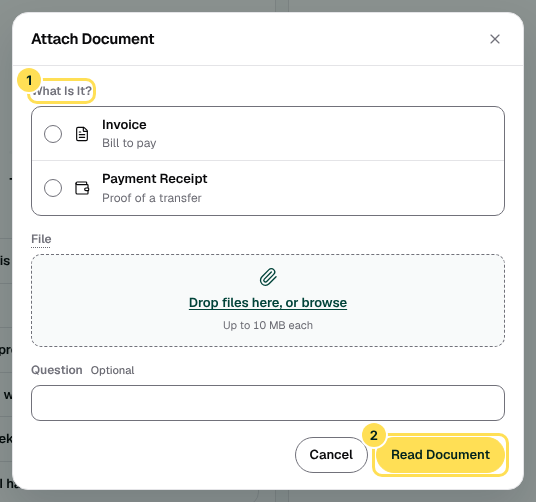
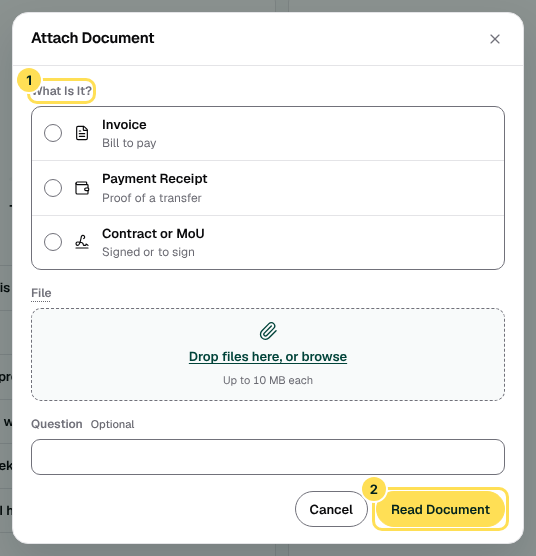
docs(praxis-ai): the User Guide's contract or MoU with its picture, PROGRESS, README and the handoff (Appendix A PR 2)
Praxis AI's Attach a document gains Contract or MoU, its terms on Record and its two cards, with a
picture of a contract's answer (praxis-attach-contract) and praxis-attach retaken with the third
tile; Partnerships' Keep a partner's documents and Record a copy signed on paper gain a tip. A
picture's do steps gain upload: a made-up sample under scripts/ai/samples/ chosen in a file field.
PROGRESS notes under Praxis AI (#67) and Partnerships (#54); README; the handoff ticked and logged.

Claude-Session: https://claude.ai/code/session_01AcPpFFbQt8BYVN9fKpVQMy

diff --git a/packages/contract/guide.js b/packages/contract/guide.js
@@ -231,9 +231,9 @@ function parseShot(id, lines, at) {
       if (list === "do") {
         // A step may name one device ("phone click: ..."): the phone reaches some controls another
         // way, through a menu or Quick Actions, while the picture shows the same thing.
-        const m = /^(?:(desktop|phone) )?(click|fill|press|wait|scroll|lock):\s*(.+)$/.exec(body);
+        const m = /^(?:(desktop|phone) )?(click|fill|upload|press|wait|scroll|lock):\s*(.+)$/.exec(body);
         if (!m) {
-          problems.push(`${where}: a do step reads "click: <target>", "fill: <target> = <text>", "press: <key>", "wait: <target>", "scroll: <target>" or "lock: <reason>", after "phone " or "desktop " for one device only`);
+          problems.push(`${where}: a do step reads "click: <target>", "fill: <target> = <text>", "upload: <target> = <file>", "press: <key>", "wait: <target>", "scroll: <target>" or "lock: <reason>", after "phone " or "desktop " for one device only`);
           continue;
         }
         const [, only, act, arg] = m;
@@ -249,6 +249,12 @@ function parseShot(id, lines, at) {
           const target = f && parseTarget(f[1]);
           if (!target) problems.push(`${where}: fill reads "fill: <target> = <text>"`);
           else spec.do.push({ action: "fill", target, value: f[2] });
+        } else if (act === "upload") {
+          // A made-up file of the repository's samples, chosen in a file field as a person picks one.
+          const f = /^(.+?)\s+=\s+(scripts\/ai\/samples\/[\w.-]+)$/.exec(arg);
+          const target = f && parseTarget(f[1]);
+          if (!target) problems.push(`${where}: upload reads "upload: <target> = scripts/ai/samples/<file>"`);
+          else spec.do.push({ action: "upload", target, file: f[2] });
         } else {
           const target = parseTarget(arg);
           if (!target) problems.push(`${where}: "${arg}" is not a target (button "X", label "X", text "X", css ...)`);

diff --git a/scripts/guide/shoot.js b/scripts/guide/shoot.js
@@ -23,7 +23,7 @@
 const fs = require("node:fs");
 const path = require("node:path");
 const { ensureAppBuild, ensurePublicBuild, serve, appSettle, launch, WIDTHS, APP_DIST, PUBLIC_DIST } = require("../check/lib/screens");
-const { IMG, readChapters, hashesOf, readShots } = require("./lib");
+const { ROOT, IMG, readChapters, hashesOf, readShots } = require("./lib");
 
 /** The demo's accounts (app/src/api/mock/data): who each `as` signs in as. */
 const ACCOUNTS = {
@@ -235,6 +235,17 @@ async function doStep(page, step) {
       c.postMessage({ t: "locked", reason });
       c.close();
     }, step.reason);
+  // A made-up sample chosen in a file field (packages/contract/guide.js keeps it to scripts/ai/samples/).
+  // A file input is hidden behind its field's button, so it is found without waiting for it to show.
+  if (step.action === "upload") {
+    const modal = page.locator("[data-ui=modal]");
+    const scope = (await modal.count()) ? modal.last() : page;
+    const selector = step.target.kind === "css" ? step.target.selector : "input[type=file]";
+    await scope.locator(selector).first().setInputFiles(path.join(ROOT, step.file));
+    // A person pauses once a file is chosen: the upload settles and the form checks its fields
+    // (useContractForm's pause) before the next press, which a press at once would beat.
+    return page.waitForTimeout(1500);
+  }
   const l = await find(page, step.target);
   if (step.action === "click") return l.click();
   if (step.action === "fill") return l.fill(step.value);

diff --git a/tests/unit/user-guide-parse.test.js b/tests/unit/user-guide-parse.test.js
@@ -104,6 +104,14 @@ describe("parseChapter", () => {
     expect(parseChapter(spec("lock: asleep"), "x.md").problems).toEqual(['x.md: shot locked, line 12: lock reads "lock: idle", "lock: time" or "lock: ended"']);
   });
 
+  test("a picture spec may choose a made-up sample in a file field, and only one of the repository's samples", () => {
+    const spec = (step) => `---\ntitle: X\n---\n\n## A {#a}\n\n![A contract](shot:mou)\n\n\`\`\`shot mou\nopen: /praxis-ai?tab=ask\ndo:\n  - ${step}\n\`\`\`\n`;
+    const ok = parseChapter(spec("upload: css input[type=file] = scripts/ai/samples/mou-signed.pdf"), "x.md");
+    expect(ok.problems).toEqual([]);
+    expect(ok.chapter.shots.mou.do).toEqual([{ action: "upload", target: { kind: "css", selector: "input[type=file]" }, file: "scripts/ai/samples/mou-signed.pdf" }]);
+    expect(parseChapter(spec("upload: css input[type=file] = /etc/passwd"), "x.md").problems).toEqual(['x.md: shot mou, line 12: upload reads "upload: <target> = scripts/ai/samples/<file>"']);
+  });
+
   test("a picture of the public site (site: public) is taken signed out at a public address, and a hub spec stays as it was", () => {
     const spec = (lines) => `---\ntitle: X\n---\n\n## A {#a}\n\n![A role](shot:role)\n\n\`\`\`shot role\n${lines}\n\`\`\`\n`;
     const ok = parseChapter(spec("site: public\nopen: /jobs/head-sales-revenue-lagos"), "x.md");

diff --git a/docs/PROGRESS.md b/docs/PROGRESS.md
@@ -1340,11 +1340,12 @@ order, then PR 3, PR 4 and PR 5 in parallel; each PR moves its own row)
 | 51 | Partners | `partners` | M7 | LA | ☑ | ☑ | ☑ | Built | 07/11/2026 |
 | 52 | Leads | `leads` | M7 | LA | ☑ | ☑ | ☑ | Built | 07/11/2026 |
 | 53 | Proposals | `proposals` | M7 | LA | ☑ | ☑ | ☑ | Built | 08/11/2026 |
-| 54 | Contracts & MOUs | `contracts-and-mous` | M7 | LA | ☑ | ☑ | ☑ | Built | 10/11/2026 |
+| 54 | Contracts & MOUs | `contracts-and-mous` | M7 | LA | ☑ | ☑ | ☑ | Built | 13/11/2026 |
 | 55 | Analytics | `analytics` | M7 | LA | ☑ | ☑ | ☑ | Built | 08/11/2026 |
 
 **Notes**
 
+- 13/11/2026 · TB · Contracts & MOUs (#54) and the Partner 360's documents (#51) from Praxis AI (`docs/guides/partnerships.md` §9; `praxis-ai.md` Appendix A PR 2): a contract or MoU attached on Ask is filed by **Record Signed Copy** (`agreements.record_signed_copy`, risk approval, through `agreements.signedCopy`) on the agreement waiting for its signature, else by **Add Partner Document** (`partner_documents.attach`, its kind by name, through `partners.documents.attach`) on the partner or lead its parties name. `SignedCopyRecord` reached `via` its card. The staging setup seed enters the document kinds of §4.3 (Proposal, MOU, Service Agreement, Contract, Brief, Invoice, Media, Other). No screen of Partnerships changed; the chapter's Keep a partner's documents and Record a copy signed on paper gain a tip. Status unchanged.
 - 10/11/2026 · TB · Contracts & MOUs (#54), the approver's buttons (found writing M7 PR 9; `docs/guides/partnerships.md` §6.9, §10.1, §13.2): the guide put **Approve** and **Reject** on the agreement's card, but PR 6 built the Approval card read only, so Home's Need You opened an agreement its approver could not decide. `AgreementDetail.approval.can_decide` (the engine's `approvers.canAct`: the stage's person or the CEO, never whoever submitted it), **Approve** and **Reject** (with its Reason sheet) on the card, desktop and phone, on the approval's own routes; the demo decides agreements too (the CEO), and its Write Draft walks its steps over a few seconds. Tests: `partnerships-agreements.test.js` (the Head of Department true at stage one, the CEO at both, the submitter and staff never) and one screen test. User Guide: Approve or reject an agreement, with pictures; Send for Signature and the draft's progress pictured. Status unchanged. Left: nothing.
 - 10/11/2026 · TB · M7 PR 9, the Partnerships User Guide chapter (`m7/user-guide`, the guide's Appendix A; no Status changed, every M7 screen stays Built): `docs/manual/partnerships.md` (`milestones: M7`), a section for each of Pipeline, Categories, Partners, Leads, Proposals, Contracts & MOUs and Analytics (#50 to #55 and #104), every task step by step with `needs` on each grant, and a picture of each step on desktop and phone. The Quick Start gains a Lead Owners group of four cards: Add a Lead, Log an Interaction, Send a Proposal and Get an Agreement Signed. The public site's Help (`public-site.md`) gains Your Proposal (#105), Sign an Agreement and Check an agreement, written to the partner. `packages/contract/guide.js` accepts the Lead Owners role and a `/proposal/<token>` address for a public picture. 335 pictures in all, the gate green. Left: the staging walk (handoff §4), which may rename a button; MyCity's two samples.
 - 08/11/2026 · JP · M7 PR 8, analytics, mail, Praxis AI, search and finish (`m7/analytics-finish`, the guide's Appendix A; Status Built): Analytics (#55) on the real API, desktop and phone, ticked: This Month, This Quarter, This Year or Custom; the KPI strip (two cards on a phone); By Lead Owner with the performance sheet's eight measures, each with its help, the rating only where Performance shows it (a card an owner on a phone); Signed per Month; Returns per Month with See Commission and Returns; By Category, By Region and Stage Conversion on desktop; Export on a computer (the period's workbook). Mailbox's Link to Partner: a conversation linked to a lead or partner logs each email once on the record, whose readers see the excerpt, and the 360's Activity opens an interaction with Open in Mailbox for its owner (migration 7120). Praxis AI: `partnerships.summary`, `partnership_returns.summary`, `proposals.list` and the New Proposal card; proposals in ⌘K. Notices: Deal Moved, Deal Stalled (to the Head of Department), Lead Signed, and the proposal's Questions Ready, Draft Ready, Viewed, Accepted, Declined, Withdrawn and Expired; Leads' and Contracts & MOUs' chips carry their share. Home's Proposals Out shows Last Viewed and Views. The synthetic staging seed (`seeds/staging/70_partnerships.js`) through the services, Home's M7 rows handed over. Fixed: Submit for Approval on a deal of a category with no default rate. The INTERIM types and the empty stubs gone. Tests: `partnerships-analytics`, `-mail`, `-notices`, `-staging-records` (17 integration), unit and screen tests. Left: the User Guide chapter (PR 9); the staging walk of Appendix B (`docs/handoff/m7-partnerships.md` §4); MyCity's samples (§13.3).
@@ -1438,6 +1439,7 @@ order, then PR 3, PR 4 and PR 5 in parallel; each PR moves its own row)
 
 **Notes**
 
+- 13/11/2026 · TB · Ask (#67), contracts and MoUs in the chat built (`docs/guides/praxis-ai.md` §6.18 as built, Appendix A PR 2): **Contract or MoU** on Attach Document for everyone who sees Partnerships, read on `agreement-document-read` (Image Reading, chosen by TB), summarised in at most five sentences, its terms on the pane's **Record** tab (`AiAnswerAttachment.record`), opened first and again from the file's From chip and Open Figures; a `file.<kind>` read never opens a Table (an invoice's pane asked for a replay and got 404). Filed by Record Signed Copy (Confirm It's You) or Add Partner Document, for `partnerships` edit; a reader with view alone gets the summary and the terms. A file kind's grant may be `view`. The User Guide's pictures may choose a made-up sample in a file field (`upload:`). Tests: `ai-contracts.test.js` (a signed MoU sealed on its agreement in Sent and its lead converted; an MoU filed on its partner, kind MOU; a party nobody may edit asks whose; view alone, no card), `ai-contracts` unit, `Assistant.test.tsx`, the parser's; two evaluation cases with made-up MoUs (`file.contract`, and `file.contract-signed`, skipped until staging has an agreement on Lagoon Youth Fest sent for signature). Left: on staging, the evaluation set with the real model; send Lagoon Youth Fest's agreement for signature there to run `file.contract-signed`.
 - 13/11/2026 · TB · Ask (#67), documents in the chat built (`docs/guides/praxis-ai.md` §1.10 decisions 41 to 48, §6.18 as built, Appendix A PR 1): **Attach Document** beside the question box on desktop and in the phone's chat opens a modal with the kinds the person may attach as tiles (Invoice for `expenses` create, Payment Receipt for `expenses.finance`), the file (PDF or a photo, 10 MB, the upload purpose `ai_attachment`) and an optional question; the question's bubble carries the file as a chip that opens it. The file is read once by its kind's reader (`GET /ai/attachment-kinds`, `AiAsk.attachment`, the manifest's `files`, `assistant.files.js`) as read 1 (`file.<kind>`), and the reader's values are laid over the model's card before the ask guard, on later questions too. An invoice becomes New Request for its balance due (`my_expenses.from_invoice`, a card field kind `lines`), a receipt Record Disbursement for the request it paid. Shared: `LinesField`, `MoneyField` `signed`, `RadioCards` captions, `QuestionBubble`'s file. Tests: `ai-files.test.js` (the sample invoice into ₦150,000.00 in six lines with its invoice claimed, a receipt recorded after Confirm It's You, a kind refused, another's upload refused), `Assistant.test.tsx`, the components' tests, two evaluation cases with made-up samples (`scripts/ai/samples/`). Left: on staging, the sample invoice into a request its line manager opens with its invoice; PR 2, contracts and MoUs.
 - 13/11/2026 · TB · Ask (#67), documents in the chat planned (`docs/guides/praxis-ai.md` §1.10 decisions 41 to 48, §6.18, Appendix A): Attach Document with three kinds picked first (Invoice, Payment Receipt, Contract or MoU), PDF and images only, read on Image Reading (TB's choice), the server setting every figure the file gave; an invoice becomes a New Request for its balance due, itemised; a payment receipt records its disbursement; a contract or MoU is summarised and filed. Docs only, no status changed. Left: Appendix A PR 1 (the attach control, invoices and receipts), then PR 2 (contracts and MoUs), each in a fresh chat.
 - 13/11/2026 · TB · Ask (#67), every card: the model's numbers are put in the contract's forms before a card is checked (700000 and "₦700,000" are "700000.00", 1 is "1"; `cards.shape` in `authorise.checkAction`), so Quantity and Unit Price are no longer refused "Expected string, received number"; a field of figures sent as text is a one-line number field, and Edit reads an amount as typed (700000 said Check the format). An ask may ask for several fields in one turn (`also`), and a done press may offer next steps (`then`, `AiActionResult.next`), each a button that asks its question (`docs/guides/praxis-ai.md` §6.11; the Praxis AI chapter). Tests: `ai-engine.test.js`, `ActionCard.test.tsx`, `ai-actions-expenses.test.js`; one evaluation case (`card.expense-send`). Left: the evaluation set on staging with the real model.

diff --git a/docs/handoff/praxis-ai-engine.md b/docs/handoff/praxis-ai-engine.md
@@ -10,7 +10,7 @@ and its record. It follows the shape of `docs/handoff/notifications-everywhere.m
 | | |
 |---|---|
 | Branch | One branch per PR, from the latest `main` (§4). PR1 was built on `claude/engine-upgrade-guide-xf4ynp` |
-| Pull requests | PR1 praxisjbs/mycity-app#49, merged 01/11/2026; PR2 praxisjbs/mycity-app#50, merged 01/11/2026; PR3 praxisjbs/mycity-app#51, merged 01/11/2026; PR4 praxisjbs/mycity-app#53, merged 01/11/2026; PR5 praxisjbs/mycity-app#56, merged 01/11/2026; after PR5, seamless tasks and meetings praxisjbs/mycity-app#57, merged 02/11/2026; documents in the chat, PR 1 praxisjbs/mycity-app#144 (§6.11) (§6 holds each PR's state) |
+| Pull requests | PR1 praxisjbs/mycity-app#49, merged 01/11/2026; PR2 praxisjbs/mycity-app#50, merged 01/11/2026; PR3 praxisjbs/mycity-app#51, merged 01/11/2026; PR4 praxisjbs/mycity-app#53, merged 01/11/2026; PR5 praxisjbs/mycity-app#56, merged 01/11/2026; after PR5, seamless tasks and meetings praxisjbs/mycity-app#57, merged 02/11/2026; documents in the chat, PR 1 praxisjbs/mycity-app#144, merged 13/11/2026, and PR 2 on `claude/pensive-darwin-sa4pn0` (§6.11) (§6 holds each PR's state) |
 | Owner | JBS Praxis (the owner), with TB and GE as the module's owners |
 | Type | Full stack (CLAUDE.md step 1): backend, contract, migrations, screens, gates and documents |
 | Started | 01/11/2026 |
@@ -817,7 +817,8 @@ lead ("It should always ask for required fields, so we never see an error. We ca
 ### 6.11 Documents in the chat (decisions 41 to 48, TB, 13/11/2026; `praxis-ai.md` Appendix A)
 
 PR 1, the attach control with invoices and payment receipts, built on the branch
-`claude/praxis-ai-docs-pr-1-2akyek`, praxisjbs/mycity-app#144. PR 2 (contracts and MoUs) starts in a fresh chat once PR 1 merges.
+`claude/praxis-ai-docs-pr-1-2akyek`, praxisjbs/mycity-app#144, merged 13/11/2026. PR 2 (contracts and MoUs) built on
+`claude/pensive-darwin-sa4pn0` the same day, in its own chat, once PR 1 had merged.
 
 - [x] 13/11/2026 · `praxis-ai.md` §6.18 rewritten as built first (the overlay before the ask guard and on later questions, `from_file`, gate 23 rule 8, the file named on its field, a receipt matching none asks which request, migration 8030), §2, §5, §6.15, §10, §11, §14; `expenses.md` §4, §5, §6.1, §9, §10, §14; `foundation.md` §14
 - [x] 13/11/2026 · Contract: `AiAttachmentKind`, `AiAttachment`, `AiAsk.attachment` (an empty question with a document), `AiAttachmentKinds`, `AiAnswer.attachment`, the card field kind `lines`; `ExpenseInvoiceRead` and `ExpenseInvoiceSuggestion` widened, `ExpenseRequestFromInvoice`; `DisbursementReceiptRead`; the upload purpose `ai_attachment`
@@ -828,7 +829,13 @@ PR 1, the attach control with invoices and payment receipts, built on the branch
 - [x] 13/11/2026 · Tests: `tests/integration/ai-files.test.js` (the four cases of Appendix A and an unreadable file, a paid-up invoice, a Word file), `expenses.test.js` (a discount line, a total below zero), `expenses-ai.test.js` (the bank), the components' and `Assistant.test.tsx`'s; two evaluation cases with made-up samples under `scripts/ai/samples/`
 - [x] 13/11/2026 · The User Guide: Praxis AI's Attach a document with its picture, Expenses' Raise a request, its pictures retaken; PROGRESS (#67, #56, #59), README
 - [ ] On staging: the sample invoice into a request of ₦150,000.00 its line manager opens with its invoice, and a receipt recorded from the chat (`eval-assistant.js --only=file`)
-- [ ] PR 2 · Contracts and MoUs (`praxis-ai.md` Appendix A), in a fresh chat from its start prompt
+- [x] 13/11/2026 · PR 2 · `praxis-ai.md` §6.18's Contract or MoU rewritten as built first (a kind's grant may be `view`, the card's kind by name with `PartnerDocumentAdd` kept, `PartnerDocumentAttach` in no `not_offered`, the reading's `currency` and each signatory's party, the pane never a Table of a file read), §2, §6.11, §8, §10, §11, Appendix A, §14; `partnerships.md` §9, §14; `ai-control.md` §13, §14; `user-guide.md` §14
+- [x] 13/11/2026 · PR 2 · Contract: `AgreementDocumentRead` (and its parts) and `AgreementSignedCopyAdd` (agreements.js), `PartnerDocumentAdd` (partners.js), `AiAttachmentRecord` on `AiAnswerAttachment.record` (assistant.js)
+- [x] 13/11/2026 · PR 2 · Backend: `agreement-document-read` on Image Reading (chosen by TB) and its prompt; `agreements.document-ai.js` (the terms, the parties matched among the records the person may edit, MyCity set aside, the agreement waiting for its signature); the kind `contract` in Agreements' manifest for Partnerships view (`FILE_GRANTS`); `agreements.record_signed_copy` (risk approval) and `partner_documents.attach` (its kind by name), each through the route's own service; `assistant.files` and the service carry the terms; the chat's prompt version 11; the staging setup's document kinds
+- [x] 13/11/2026 · PR 2 · Screens: the pane opens a contract's terms on Record (first, from its file's From chip, from Open Figures on a phone) and never offers a Table of a `file.<kind>` read; the in-browser mock's Contract or MoU
+- [x] 13/11/2026 · PR 2 · Tests: `tests/integration/ai-contracts.test.js` (a signed MoU sealed on its agreement in Sent after Confirm It's You, the lead converted; an MoU filed on its partner, kind MOU; a party nobody may edit asks whose; view alone, no card), `ai-files.test.js` and `ai-control.test.js` and the staging seed's test updated, `tests/unit/foundation/ai-contracts.test.js`, `Assistant.test.tsx`, the User Guide parser's; two evaluation cases with made-up MoUs (`scripts/ai/samples/mou.pdf`, `mou-signed.pdf`)
+- [x] 13/11/2026 · PR 2 · The User Guide: Praxis AI's Attach a document with a contract's picture (`praxis-attach-contract`, taken with the new `upload:` step) and `praxis-attach` retaken with its third tile; Partnerships' two tips; PROGRESS (#67, #54), README
+- [ ] On staging: a contract read with the real model (`eval-assistant.js --only=file.contract`); send Lagoon Youth Fest's agreement for signature there to run `file.contract-signed`
 
 ## 7 · Gates this work adds
 
@@ -843,6 +850,17 @@ PR 1, the attach control with invoices and payment receipts, built on the branch
 ---
 
 ## 8 · Log
+
+- 13/11/2026 · TB · Documents in the chat, PR 2 built (§6.11): Contract or MoU read, summarised with its terms on
+  the pane's Record tab, and filed by Record Signed Copy on the agreement waiting for its signature or by Add
+  Partner Document on its partner or lead. Found on the way and written into `praxis-ai.md` §6.18: the
+  manifest refused a `view` grant on a file kind, which decision 41 asks for, so files take any grant
+  (`FILE_GRANTS`); gate 23 refuses a `not_offered` naming a schema that is no create or edit form, so
+  `PartnerDocumentAttach` is in none; a file read is never replayed, yet the pane opened it as a Table and
+  asked for its replay (404 for every invoice and receipt answer), so it opens Record or Sources; the
+  in-browser mock's upload is beaten by a press at once, so the picture tool's new `upload:` step pauses as a
+  person does; staging had no document kinds. The container's PostgreSQL lacked pgvector again (installed by
+  hand, `postgresql-16-pgvector`).
 
 - 13/11/2026 · TB · Documents in the chat, PR 1 built (§6.11): Attach Document with Invoice and
   Payment Receipt; the reading as read 1 and its values over the model's card before the ask guard,

diff --git a/docs/manual/praxis-ai.md b/docs/manual/praxis-ai.md
@@ -310,25 +310,33 @@ screens: it opens the screen, and you save there with its own button.
 
 ### Attach a document {#praxis-ask-attach needs="praxis_ai create"}
 
-Praxis AI can read an invoice or a payment receipt and draw the card that records it. You check
-the card and press it; nothing is saved before.
+Praxis AI can read an invoice, a payment receipt, or a contract or MoU, and draw the card that
+records it. You check the card and press it; nothing is saved before.
 
 1. Press **Attach Document**, the paperclip to the left of the question box.
    ![Attach Document](shot:praxis-attach)
 2. Under **What Is It?**, press what the document is. Only the kinds you may use are shown.
 3. {needs="expenses create"} Press **Invoice** for a bill to pay. It becomes **New Request** for what is still owed.
 4. {needs="expenses create, cap expenses.finance"} Press **Payment Receipt** for proof of a transfer. It becomes **Record Disbursement** for the request it paid.
-5. Choose the file: a PDF or a photo, up to 10 MB. On a phone you can take a photo of it.
-6. Leave **Question** empty, or write your own question about the document.
-7. Press **Read Document**. Your question shows the file's name; press it to open the file.
-8. {needs="expenses create"} For an invoice, check the card's lines: each item, a discount as a minus, and what was already paid as a minus line. The **Total** is the balance due.
-9. {needs="expenses create, cap expenses.finance"} For a receipt, check the request it paid. If it matches several, or none, Praxis AI asks **Which request was paid?**; press the right one.
-10. Press **Edit** to change anything, then press the card's button.
+5. {needs="partnerships view"} Press **Contract or MoU** for an agreement, signed or to sign. Praxis AI sums it up and shows its terms on **Record**.
+6. Choose the file: a PDF or a photo, up to 10 MB. On a phone you can take a photo of it.
+7. Leave **Question** empty, or write your own question about the document.
+8. Press **Read Document**. Your question shows the file's name; press it to open the file.
+9. {needs="expenses create"} For an invoice, check the card's lines: each item, a discount as a minus, and what was already paid as a minus line. The **Total** is the balance due.
+10. {needs="expenses create, cap expenses.finance"} For a receipt, check the request it paid. If it matches several, or none, Praxis AI asks **Which request was paid?**; press the right one.
+11. {needs="partnerships view"} For a contract or MoU, read its terms on **Record**: the parties, the dates, the notice, the value, how it renews and what each side must do. On a phone, press **Open Figures**.
+    ![A contract's terms and its card](shot:praxis-attach-contract)
+12. {needs="partnerships edit"} Check its card. **Record Signed Copy** files it as the signed copy of the agreement waiting for its signature, and asks **Confirm It's You**. **Add Partner Document** files it among its partner's or lead's documents.
+13. {needs="partnerships edit"} If Praxis AI asks **Which agreement is it?**, **Whose document is it?** or **What kind is it?**, press the right one.
+14. Press **Edit** to change anything, then press the card's button.
 
 > **Tip:** A Word file or a spreadsheet is refused. Save it as a PDF, or take a photo of it.
 
 > **Important:** If the answer says **This file cannot be read. Try a clearer copy.**, attach a
 > sharper photo or the PDF the business sent. An invoice already paid in full draws no card.
+
+> **Tip:** A contract or MoU is only summarised and filed. Make a new agreement on
+> [Partnerships · Contracts & MOUs](/partnerships?tab=contracts-and-mous).
 
 ### Confirm it is you for an approval {#praxis-ask-confirm needs="praxis_ai create"}
 
@@ -463,6 +471,25 @@ marks:
   2: label "Ask a Question" | Type your question
   3: button "Record Question" | Ask with your voice
   4: button "Send" | Send it
+```
+
+```shot praxis-attach-contract
+open: /praxis-ai?tab=ask
+as: operations
+do:
+  - phone click: button "New Conversation"
+  - click: button "Attach Document"
+  - wait: text "What Is It?"
+  - click: text "Contract or MoU"
+  - upload: css input[type=file] = scripts/ai/samples/mou-signed.pdf
+  - wait: text "mou-signed.pdf"
+  - click: button "Read Document"
+  - wait: button "Record Signed Copy"
+sources:
+  - app/src/features/assistant/Attach.tsx
+  - app/src/features/assistant/Pane.tsx
+marks:
+  1: button "Record Signed Copy" | File the signed copy
 ```
 
 ```shot praxis-attach

diff --git a/README.MD b/README.MD
@@ -176,8 +176,9 @@ mycity-app/
 │   │                         attack-assistant.js: its attack suite, asked of the real model on staging
 │   │                         nightly through deploy-gate attack (docs/guides/praxis-ai.md §6.17)
 │   │                         with a real key before a change to its prompt or loop ships (not in CI);
-│   │                         samples/invoice.pdf and samples/payment-receipt.pdf: made-up documents
-│   │                         the evaluation set attaches (praxis-ai.md §6.18), no real business or account
+│   │                         samples/invoice.pdf, samples/payment-receipt.pdf, samples/mou.pdf and
+│   │                         samples/mou-signed.pdf: made-up documents the evaluation set attaches, and
+│   │                         a User Guide picture uploads (praxis-ai.md §6.18), no real business or account
 │   ├── ops/                  health-brief.js: the Status brief made on the server (npm run health:brief),
 │   │                         and with --watch the health watch that mails it when something is down
 │   └── deploy/               deploy-gate, check-gate, release-manifest, verify-staging, rollback
@@ -644,7 +645,7 @@ files included (`.ai`, `.search`).
 | `leads` | `.360` (the Lead 360, renders correctly with zero data) (PR 3); a lead's status is `partner_pipeline.lists`' `leadStatusOf`, kept in step by `leads.service`; conversion is `partners.convert`; `.views` (PR 8); `.events` registers `lead.cities` (PR 1) |
 | `interactions` | `.mail` (with `mailbox/binding/`, PR 8) |
 | `proposals` | `.studio` (the brief, its sources and the kit's context), `.questions` (the cards, answer, skip, reshuffle), `.draft` (the jobs' work: the draft, the figure check asked once more), `.content` (validation per layout, the figure check, Build by Hand's starter), `.kit` (the design kit's HTML for web and PDF), `.charts` (the seven charts as SVG), `.send` (Send with confirmation, the link, `proposal-sent`), `.public` with `.public.routes` (the private link and its views), `.proof` (proof points, PR 2); saved templates in `.service` (PR 7). `.ai` and `.search` are PR 8's |
-| `agreements` | `.generate`, `.tidy`, `.lifecycle`, `.approval`, `.signing` (calls `signatures`), `.renewals`, `.views` (PR 6; `.tidy` with PR 2) |
+| `agreements` | `.generate`, `.tidy`, `.lifecycle`, `.approval`, `.signing` (calls `signatures`), `.renewals`, `.views` (PR 6; `.tidy` with PR 2); `.document-ai` (a contract or MoU attached on Praxis AI read on `agreement-document-read`, prompt `services/ai/prompts/agreement-document-read.md`: its terms and the card that files it, Record Signed Copy or Add Partner Document; praxis-ai.md §6.18, Appendix A PR 2) |
 | `partnership_analytics` | `.queries` (per lead owner, A21; PR 8) |
 | `signatures` (shared with M5) | built by M5 (§5.8): M7's agreements declare themselves with `defineSignable` and send with `requestIn`; the stamping is each signable's template, given the signatures by `.signed-pdf` |
 | `mailbox/binding/` | `intake.service`, `mail-context.service`, `context-tabs`, `convert.service` (PR 8) |

diff --git a/docs/guides/user-guide.md b/docs/guides/user-guide.md
@@ -238,7 +238,7 @@ marks:
 - **Pictures**: `![What it shows](shot:<id>)` and, anywhere in the file, a fenced `shot <id>` block:
   `open` (the address), `as` (the demo account: operations, ceo, manager, staff, admin), `device`
   (`both`, `desktop` or `phone`; both unless set), `do` (steps before the picture: `click`, `fill`,
-  `press`, `wait`), `marks` (number: target `|` what it is), `crop` (`page`, `modal`, `viewport`
+  `upload` (a made-up sample under `scripts/ai/samples/` chosen in a file field), `press`, `wait`), `marks` (number: target `|` what it is), `crop` (`page`, `modal`, `viewport`
   or a selector), `prompt` (`keep`: a picture of a prompt that opens once per sign-in, taken in a
   sign-in of its own), `site` (`public`: a public site page, taken signed out on the public app's demo
   build, `open` its address such as `/jobs/<slug>`), `sources` (extra code paths the picture depends on).
@@ -528,6 +528,8 @@ word limits do not count it, as they do not count an article.
 - Who signs off each milestone's chapters before the next PR starts (TB proposed as reviewer).
 
 ## 14 · Change log
+
+- 13/11/2026 · TB · A picture's `do` steps gain `upload: <target> = scripts/ai/samples/<file>`, a made-up sample chosen in a file field (`packages/contract/guide.js`, `scripts/guide/shoot.js`), so Praxis AI's Attach a document pictures a contract's answer (`praxis-ai.md` §6.18, Appendix A PR 2). Only the repository's own samples, never another file.
 
 - 13/11/2026 · JP · The Payroll chapter (M6 PR 8, `docs/manual/payroll.md`, `milestones: M6`): Payroll Runs, Payslips, Deductions and Configurations, the month from New Run to Mark Paid, fines and advances, the pay day, Bank Details Required, statutory figures with their sources, Remove Change and Advanced Payroll; the ESS chapter's My Payslips section (`milestones: M1, M6`); their pictures.
 

diff --git a/docs/manual/README.md b/docs/manual/README.md
@@ -105,7 +105,7 @@ under it). Its spec is a fenced `shot <id>` block anywhere in the same file:
 | `open` | The screen's address, `/people?tab=employees` |
 | `as` | The demo account: `operations` (People), `ceo`, `manager`, `staff`, `admin` |
 | `device` | `both` (the default), `desktop` or `phone` |
-| `do` | Steps before the picture: `click: button "Add Employee"`, `fill: label "First Name" = Ada`, `press: Escape`, `wait: text "Saved"`, `scroll: heading "Bank"`, `lock: idle` (the lock screen, as Session Locked; `time` is Session Ended, `ended` Signed Out). A step starting `phone ` or `desktop ` runs on that device only: `phone click: button "More Actions"` |
+| `do` | Steps before the picture: `click: button "Add Employee"`, `fill: label "First Name" = Ada`, `upload: css input[type=file] = scripts/ai/samples/mou-signed.pdf` (a made-up sample chosen in a file field), `press: Escape`, `wait: text "Saved"`, `scroll: heading "Bank"`, `lock: idle` (the lock screen, as Session Locked; `time` is Session Ended, `ended` Signed Out). A step starting `phone ` or `desktop ` runs on that device only: `phone click: button "More Actions"` |
 | `marks` | Numbered marks drawn on the picture: `1: button "Add Employee" \| Add a person`. The legend under the picture lists them |
 | `crop` | `page` (the default), `modal` (only the open dialog or sheet), `viewport`, or a CSS selector |
 | `prompt` | `keep`: the picture is of a prompt that opens by itself once per sign-in (a policy to acknowledge), so it is taken in a sign-in of its own, before the prompt is closed |

diff --git a/docs/manual/partnerships.md b/docs/manual/partnerships.md
@@ -335,6 +335,9 @@ The table marks the main contact **Primary** and a signer **Signs**.
 
 Signed agreements, signed copies and proposals are filed here for you.
 
+> **Tip:** You can also attach a contract or MoU in Praxis AI. It sums the document up and files it
+> here with **Add Partner Document** ([Attach a document](#praxis-ask-attach)).
+
 ### Enter a month's returns {#partnerships-partners-returns needs="partnerships edit, cap partnerships.money"}
 
 Returns are what a partner's deal earned in a month.
@@ -677,6 +680,10 @@ If a signer declines, a line says so with their reason. If the link expires, the
 
 The agreement reads **Signed Outside the Hub**. It is filed and the lead converts, as for a signature
 made on screen.
+
+> **Tip:** Attach the signed copy in Praxis AI instead, and it finds the agreement waiting for its
+> signature and draws **Record Signed Copy** with the day and the signer filled
+> ([Attach a document](#praxis-ask-attach)).
 
 ### Renew an agreement {#partnerships-contracts-renew needs="partnerships edit"}
 
